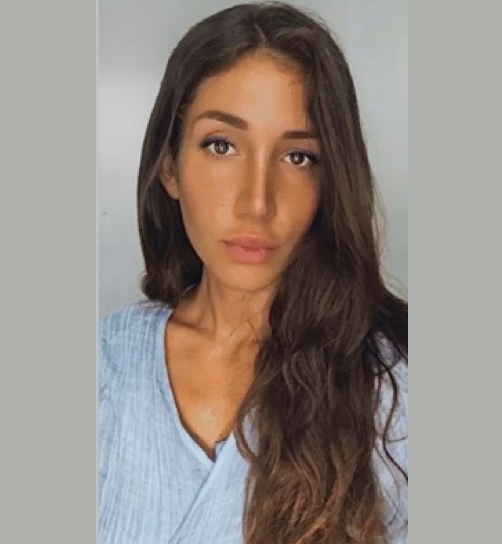
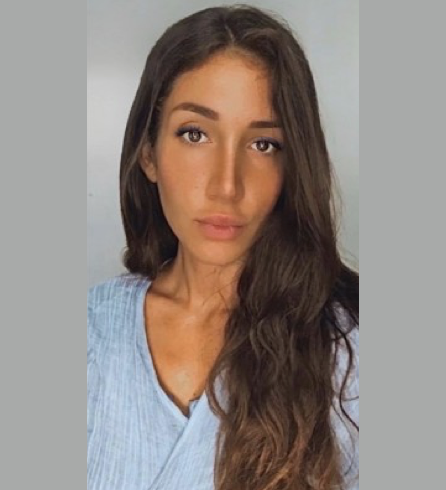
new

diff --git a/src/data/IntervenantsDataEnglish.js b/src/data/IntervenantsDataEnglish.js
@@ -113,7 +113,7 @@ export const IntervenantsData = [
   },
   {
     id: 14,
-    name: "Raphael Ouzan*",
+    name: "Raphael Ouzan",
     position:
       "Founder & CEO - A.Team | Founder and Investor - BlockNation |  CoFounderIsraël Tech Challenge",
     photo: ouzan
@@ -132,7 +132,7 @@ export const IntervenantsData = [
   },
   {
     id: 17,
-    name: "Julien Bahloul*",
+    name: "Julien Bahloul",
     position: "Country Manager - OrCam",
     photo: bahloul
   },

diff --git a/src/data/IntervenantsData.js b/src/data/IntervenantsData.js
@@ -105,14 +105,14 @@ export const IntervenantsData = [
   },
   {
     id: 13,
-    name: "Raphael Ouzan*",
+    name: "Raphael Ouzan",
     position:
       "Fondateur et CEO @A.Team, Fondateur et Investisseur @BlockNation, Co-Fondateur @Israël Tech Challenge",
     photo: ouzan
   },
   {
     id: 14,
-    name: "Julien Bahloul*",
+    name: "Julien Bahloul",
     position: "Country Manager @OrCam",
     photo: bahloul
   },

diff --git a/src/data/techniqueData.js b/src/data/techniqueData.js
@@ -7,13 +7,11 @@ export const TechniqueData = [
     name: " Jeanine Tuil",
     position: "Secrétaire Générale @Chambre de Commerce Israël- France",
     photo: jt
-   
   },
   {
     id: 2,
     name: "Eva Suissa",
     position: "Project Manager @Chambre de Commerce Israël - France",
     photo: eva
-  },
-
+  }
 ];

diff --git a/src/style/components/_equipe.scss b/src/style/components/_equipe.scss
@@ -35,7 +35,7 @@
   
   img {
     border-radius: 9rem;
-    width: 75%;
+    width: 77%;
     background-color: white;
   }
 
